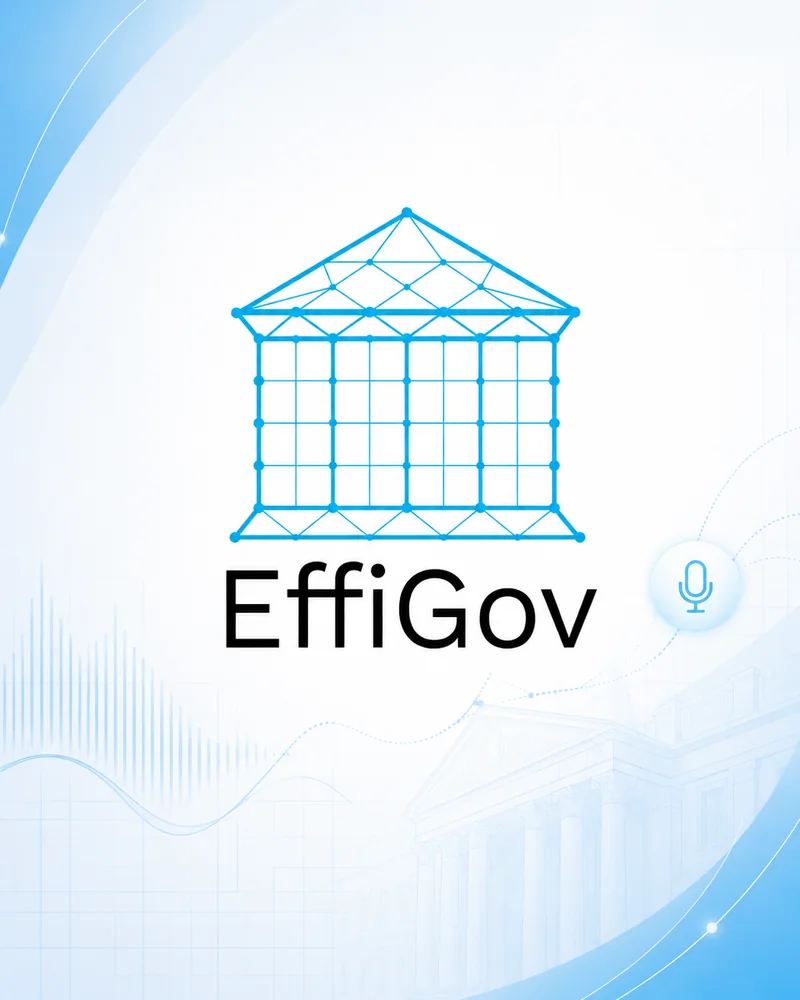
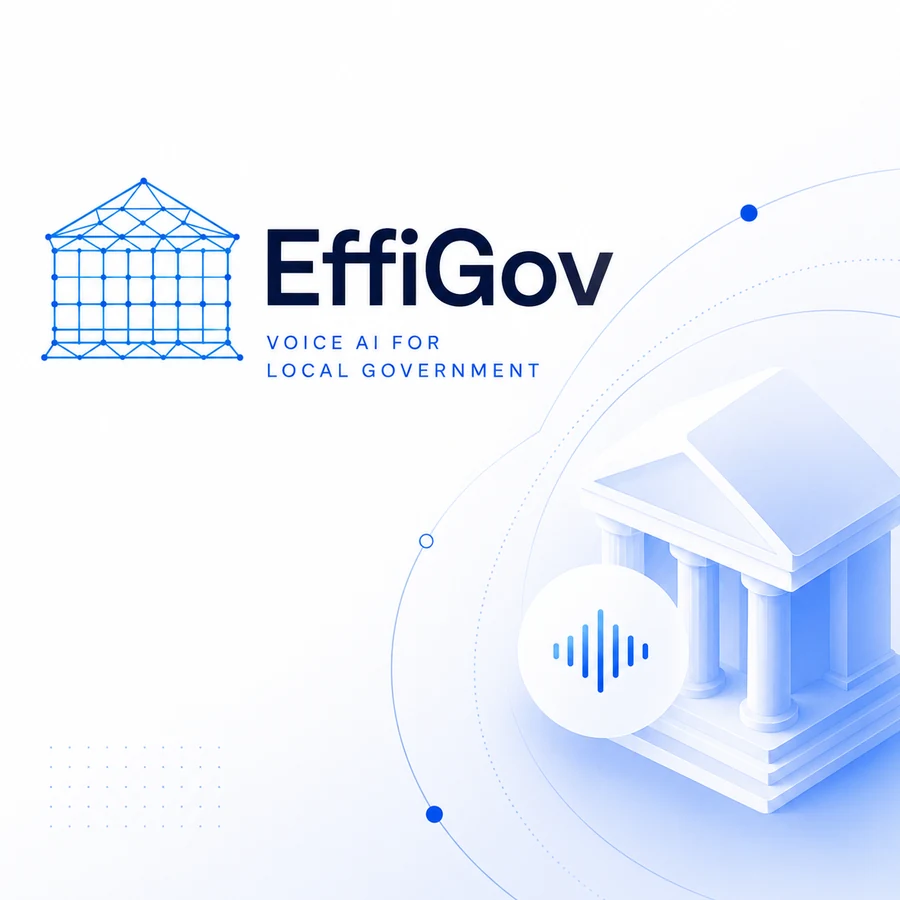
Add purpose-built square card covers for Serval, Carpe, Alleviate Health, Syntra, EffiGov, Gradient Health
Replaces cropped screenshots with 900x900 branded covers matching the
lemon-slice/eqore/throne-science convention. Trimmed the source rounded-corner
frame so brand color bleeds to the card edge, and switched each rule to
cover/center (dropping the old per-card crop offsets).

diff --git a/index.html b/index.html
@@ -883,15 +883,15 @@
     background-color: var(--img-bg, var(--paper-raised));
     z-index: 0;
   }
-  .card-img--serval { --img: url('assets/company/serval-card.webp'); --img-position: center -34px; }
-  .card-img--carpe { --img: url('assets/company/carpe-card.webp'); --img-bg: #F56B0A; }
-  .card-img--alleviate { --img: url('assets/company/alleviate-health-card.webp'); --img-size: 122% auto; --img-position: center -46px; }
-  .card-img--syntra { --img: url('assets/company/syntra-card.webp'); }
-  .card-img--effigov { --img: url('assets/company/effigov-card.webp'); --img-size: 110% auto; --img-position: center -34px; }
+  .card-img--serval { --img: url('assets/company/serval-card.webp'); --img-size: cover; --img-position: center; --img-bg: #FBFAFC; }
+  .card-img--carpe { --img: url('assets/company/carpe-card.webp'); --img-size: cover; --img-position: center; --img-bg: #FCFBFA; }
+  .card-img--alleviate { --img: url('assets/company/alleviate-health-card.webp'); --img-size: cover; --img-position: center; --img-bg: #FBFCFE; }
+  .card-img--syntra { --img: url('assets/company/syntra-card.webp'); --img-size: cover; --img-position: center; --img-bg: #FBFCFE; }
+  .card-img--effigov { --img: url('assets/company/effigov-card.webp'); --img-size: cover; --img-position: center; --img-bg: #FAFCFE; }
   .card-img--farmshots { --img: url('assets/company/farmshots-card.webp'); }
   .card-img--ivella { --img: url('assets/company/ivella-card.webp'); --img-position: center -34px; --img-bg: #090611; }
   .card-img--octolane { --img: url('assets/company/octolane-card.webp'); }
-  .card-img--gradient { --img: url('assets/company/gradient-health-card.webp'); --img-position: center -34px; --img-bg: #F4F4F4; }
+  .card-img--gradient { --img: url('assets/company/gradient-health-card.webp'); --img-size: cover; --img-position: center; --img-bg: #FCFCFE; }
   .card-img--nebula { --img: url('assets/company/nebula-card.webp'); --img-position: center -46px; --img-bg: #080A17; }
   .card-img--turbo { --img: url('assets/company/turbo-card.webp'); --img-bg: #F3F0EB; }
   .card-img--tomo { --img: url('assets/company/tomo-card.webp'); --img-bg: #F4F0E6; }
